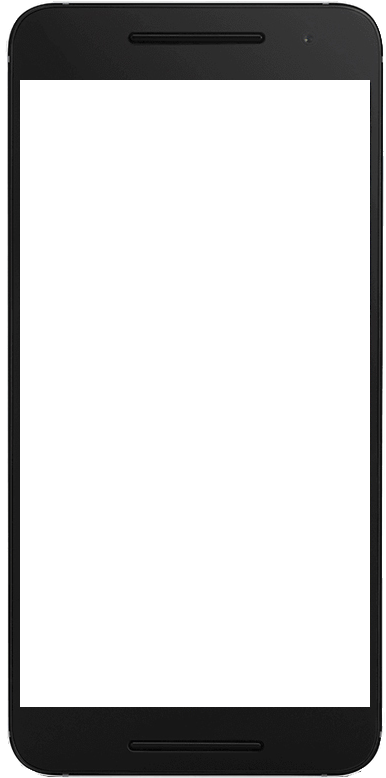
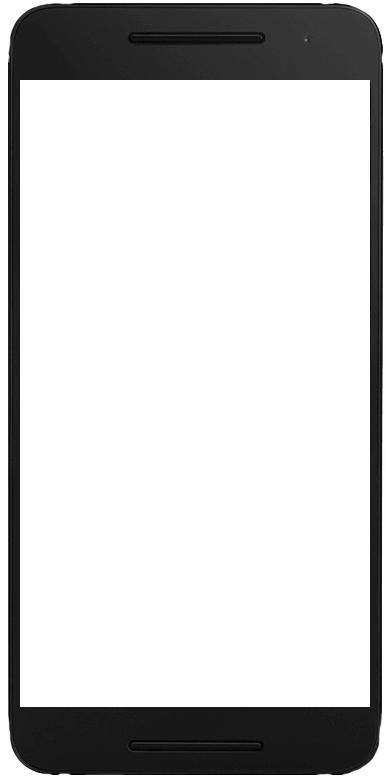
frame quick fix

diff --git a/FacebookChatHeadsPreviewer/FacebookChatHeadsPreviewer/Views/HeadPreviewWindow.xaml b/FacebookChatHeadsPreviewer/FacebookChatHeadsPreviewer/Views/HeadPreviewWindow.xaml
@@ -23,8 +23,8 @@
         </Image>
 
 
-        <Image HorizontalAlignment="Left" Height="781" Margin="45,14,-22,0" Source="/Resources/homescreen.png" VerticalAlignment="Top" Width="781"/>
-        <Image HorizontalAlignment="Left" Height="781" Margin="511,10,-488,0" Source="/Resources/homescreen.png" VerticalAlignment="Top" Width="781"/>
+        <Image HorizontalAlignment="Left" Height="771" Margin="47,20,0,0" Source="/Resources/frame.png" VerticalAlignment="Top" Width="781"/>
+        <Image HorizontalAlignment="Left" Height="767" Margin="511,17,-332,0" Source="/Resources/frame.png" VerticalAlignment="Top" Width="781"/>
 
         <!--Selected photos-->
         <Image Name="ChatList" Source="{Binding imgpath}" RenderOptions.BitmapScalingMode="LowQuality"  HorizontalAlignment="Left" Margin="80,364,0,0" VerticalAlignment="Top" Width="49" Height="48"/>
